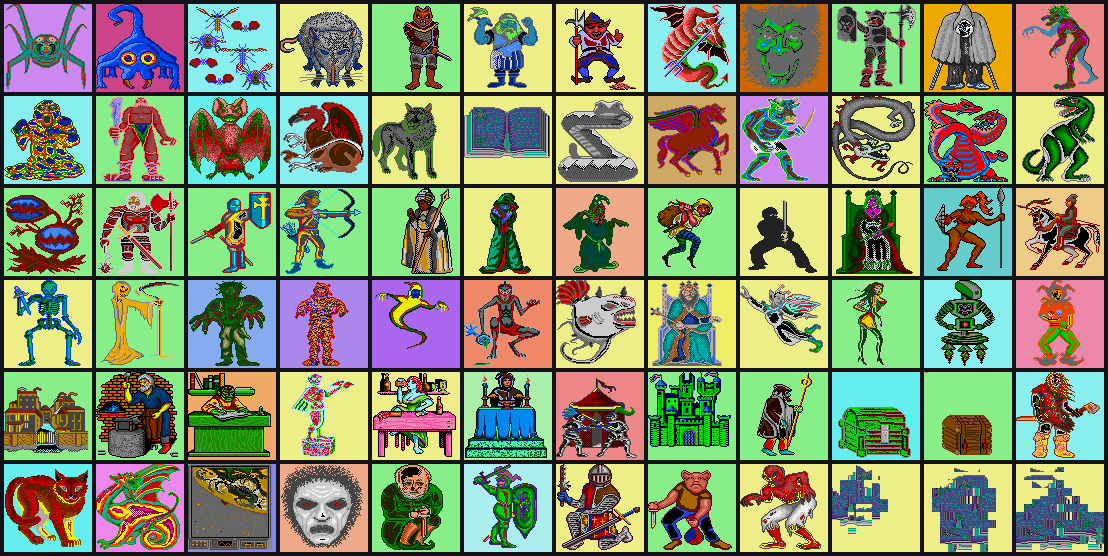
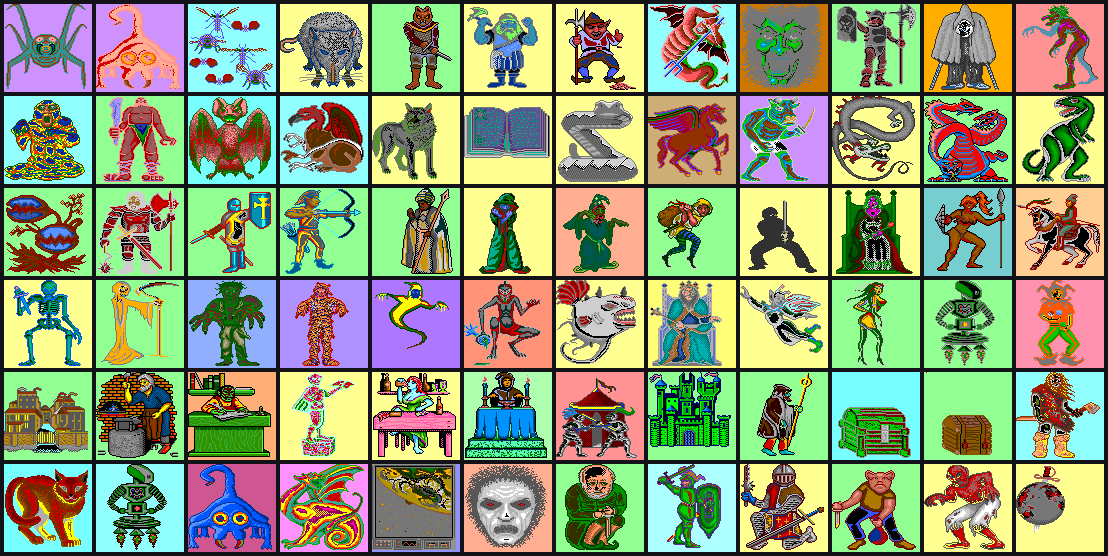
fix: Mega Drive 三張怪物圖配錯 tile 池，畫出來是雜訊
A4 原本記的是「150 個沒歸類的 LZSS 區塊多半是掃描的假陽性，只有
`0x0345D0` 一個在 ROM 裡有人指到」。拆長度分布就知道那個結論不成立 ——
十幾種長度各出現四到十三次，假陽性不會這樣分佈：

  74 個 `rawSize % 242 == 0`  → 怪物圖的 nametable，mdgfx 早就在用
  74 個 `rawSize % 32 == 2`   → tile 池（張數欄與長度互相印證）
   2 個 前四個位元組是寬高    → 小張 tilemap（14×14 與 7×64）

那 74 個池裡 68 個是重覆（帶區塊頭的池，頭後面就是裸的 LZSS 頭，
位址差 14）。**剩下六個裡有三個是關鍵**：`0x09213C`／`0x0938DA`／
`0x0943B8` 排在最後三張怪物 nametable 前面，正是 ROM 的
（tile 池, nametable, 調色盤）排法。而 `pair_pool` 只看帶區塊頭的池，
那三張往前找不到，配到了一百六十幾 KB 外的 `0x06B834` ——
**配得到、圖也畫得出來，只是整張是雜訊**，與「這張本來就長這樣」分不開。

修法是 `mdgfx.all_pools()`：把裸的池一起收進來，`--pics` 與 `--export`
都改用它。三張圖現在是一個機器人、一隻藍色的蠍形獸、一顆插著火箭的
星球。重烘之後 `docs/gallery/md-monsters.png` 最後一列可以直接看出差別。

合併時重覆的池**一定要以帶區塊頭的為準** —— 裸的那一份沒有調色盤，
挑到它那張圖會沿用上一張的顏色，圖形還是對的，看起來只像
「這隻怪的配色怪怪的」。順帶：那兩隻在 ROM 裡各存了兩份，剪影完全相同，
與 DOS 槽號比對時分數一路平手，所以 `monpack.assign` 改成**平手取圖索引
小的**（先出現的那一份自帶調色盤），否則誰贏會隨排序的實作細節浮動。

`tools/mdassets.py` 也補上這三族的判準，`other` 欄現在是 **0** ——
這顆 ROM 裡每一個 LZSS 區塊都歸類完了。

教訓：**「ROM 裡有沒有人指到」這個過濾器在這一題上零證據力**。
150 個裡只有一個命中，而其中至少 80 個確定是程式在用的東西。
同一個過濾器在找調色盤時是決定性的，在這裡有洞 ——
過濾器沒中不等於東西不存在。

Changed region(s): [[0.0614, 0.8255, 1.0, 1.0], [0.0614, 0.0, 0.1841, 0.1835], [0.8285, 0.4892, 0.9206, 0.6727]]

diff --git a/tools/mdassets.py b/tools/mdassets.py
@@ -204,6 +204,7 @@ def main() -> None:
 
     done = set()
     n_tiles = n_view = n_other = n_map = n_pool = n_text = 0
+    n_ntab = n_tmap = 0
     for src, pool in sorted(todo):
         if src in done:
             continue
@@ -276,6 +277,37 @@ def main() -> None:
             rows.append(("pool", src, f"{n} tiles", note, name))
             n_pool += 1
             continue
+        # 帶區塊頭的池會被掃描器再找到一次（頭後面就是裸的 LZSS 頭），
+        # 位址差 14。那不是新東西，直接跳過，否則總表上一個池會出現兩次。
+        if src + 14 in pool_at:
+            continue
+        # 怪物圖的 nametable：`raw % 242 == 0`（242 ＝ 11×11×2）。
+        # 這一族由 `tools/mdgfx.py --export` 配上 tile 池烘成素材包，
+        # 不必在這裡再畫一次。
+        if raw % mdgfx.NT_BYTES == 0:
+            rows.append(("pic-nt", src, f"{raw // mdgfx.NT_BYTES} 影格",
+                         "怪物圖的 nametable，配 `mdgfx.py --export`", ""))
+            n_ntab += 1
+            continue
+        # 小張的 tilemap：前四個位元組是寬高（cell 數），`4 + w×h×2` 要等於長度。
+        w = int.from_bytes(data[0:2], "big")
+        h = int.from_bytes(data[2:4], "big")
+        if w and h and 4 + w * h * 2 == raw:
+            rows.append(("tilemap", src, f"{w}×{h} cell",
+                         "寬高在前四個位元組", ""))
+            n_tmap += 1
+            continue
+        # 沒有區塊頭的 tile 池：張數欄與長度互相印證就算數，不必有人指到。
+        if raw % 32 == 2:
+            n = int.from_bytes(data[:2], "big")
+            if n == (raw - 2) // 32:
+                name = f"pool/{src:06X}-{n}t.png"
+                save_tiles(data[2:], n, mdscene.rom_palette(rom, 0),
+                           os.path.join(out, name), scale=args.scale)
+                rows.append(("pool", src, f"{n} tiles",
+                             "沒有區塊頭；張數欄與長度對得上", name))
+                n_pool += 1
+                continue
         # 其他：原樣存起來，順便記下它像不像 tile
         name = f"other/{src:06X}-{raw}.bin"
         with open(os.path.join(out, name), "wb") as fh:
@@ -324,9 +356,10 @@ def main() -> None:
         cited = sum(1 for r in rows if r[0] == "other" and "有人指到" in r[3])
         fh.write(f"由 `tools/mdassets.py` 產生。tile 池 {n_tiles} 個、"
                  f"視野點陣圖 {n_view} 張、介面 tilemap {n_map} 張、"
-                 f"tile 池（無區塊頭）{n_pool} 個、文字區塊 {n_text} 個、"
+                 f"小張 tilemap {n_tmap} 張、tile 池（無區塊頭）{n_pool} 個、"
+                 f"怪物圖 nametable {n_ntab} 張、文字區塊 {n_text} 個、"
                  f"其他 LZSS 區塊 {n_other} 個"
-                 f"（其中 {cited} 個在 ROM 裡有人指到，其餘多半是掃描的假陽性）、"
+                 f"（其中 {cited} 個在 ROM 裡有人指到）、"
                  f"16 色調色盤 {len(pals)} 組。\n\n")
         fh.write("| 家族 | 位址 | 尺寸／數量 | 備註 | 檔案 |\n|---|---|---|---|---|\n")
         for fam, addr, size, note, name in sorted(rows, key=lambda r: (r[0], r[1])):
@@ -334,7 +367,8 @@ def main() -> None:
         fh.write("\n調色盤位址：" + "、".join(f"`0x{p:06X}`" for p in pals) + "\n")
 
     print(f"tile 池 {n_tiles}、視野點陣圖 {n_view}、介面 tilemap {n_map}、"
-          f"tile 池（無區塊頭）{n_pool}、文字 {n_text}、其他 {n_other}、"
+          f"小張 tilemap {n_tmap}、tile 池（無區塊頭）{n_pool}、"
+          f"怪物圖 nametable {n_ntab}、文字 {n_text}、其他 {n_other}、"
           f"調色盤 {len(pals)} → {out}")
 
 

diff --git a/tools/mdgfx.py b/tools/mdgfx.py
@@ -247,6 +247,54 @@ def nametables(d: bytes) -> list:
     return out
 
 
+def raw_pools(d: bytes) -> list:
+    """掃出**沒有區塊頭**的 tile 池，回傳與 `blocks()` 同形狀的 dict。
+
+    帶頭的那一族（`blocks()`）要求 16 bytes 區塊頭加 `F0FF` magic；
+    ROM 裡還有一批只有裸的 `compSize/rawSize/位元流`，其中三個就排在
+    最後三張怪物 nametable 前面。`pair_pool` 只看 `blocks()` 的話，
+    那三張會配到一百六十幾 KB 外的池 —— **配得到、圖也畫得出來，
+    只是全部是雜訊**，與「這張本來就長這樣」分不開。
+
+    判準是兩個獨立欄位互相印證：`rawSize % 32 == 2`（開頭兩個位元組是
+    張數），而且解出來的第一個字等於 `(rawSize − 2) / 32`。
+    """
+    out = []
+    for x in range(0, len(d) - 8, 2):
+        comp = int.from_bytes(d[x:x + 4], "big")
+        raw = int.from_bytes(d[x + 4:x + 8], "big")
+        if raw % 32 != 2 or not (0x20 < comp < 0x20000) or raw > 0x8000:
+            continue
+        if x + 8 + comp > len(d) or not (raw // 8 <= comp <= raw * 2):
+            continue
+        try:
+            data, used = lzss(d, x + 8, raw)
+        except Exception:
+            continue
+        if len(data) != raw or abs(used - comp) > 2:
+            continue
+        n = int.from_bytes(data[:2], "big")
+        if n != (raw - 2) // 32:
+            continue
+        out.append({"pal": None, "hdr": x - 2, "data": x + 8, "id": -1,
+                    "comp": comp, "raw": raw, "tiles": n, "flag": 0})
+    return out
+
+
+def all_pools(d: bytes, bs=None) -> list:
+    """帶頭的與裸的 tile 池合在一起，依位址排序。
+
+    **重疊的一定要以帶頭的為準**：`raw_pools` 會把每一個帶頭的池再找到
+    一次（區塊頭後面就是裸的 `compSize/rawSize/位元流`），而裸的那一份
+    `pal` 是 None —— 挑到它的話那張圖會沿用上一張的調色盤，顏色整個換掉，
+    但圖形本身還是對的，所以看起來只像「這隻怪的配色怪怪的」。
+    """
+    bs = bs if bs is not None else blocks(d)
+    have = {b["hdr"] for b in bs}
+    out = list(bs) + [p for p in raw_pools(d) if p["hdr"] not in have]
+    return sorted(out, key=lambda b: b["hdr"])
+
+
 def pair_pool(bs, nt):
     """替一張 nametable 找它的 tile 池。
 
@@ -254,6 +302,9 @@ def pair_pool(bs, nt):
     而且 tile 數蓋得住這張圖用到的最大索引**的那個池；前面找不到才往後找
     （少數幾張共用池，池排在後面）。只取「前面最近」會漏掉那幾張，
     而漏掉的長相是一張全黑的圖 —— 與「這張本來就是空的」分不開。
+
+    **`bs` 要用 `all_pools()`**：只給 `blocks()` 的話，最後三張的池找不到，
+    會往一百六十幾 KB 外配一個「tile 數夠多」的池，畫出來是雜訊。
     """
     need = max(v & 0x7FF for v in struct.unpack_from(">%dH" % PIC_CELLS, nt["data"], 0))
     before = [b for b in bs if b["hdr"] < nt["at"] and b["tiles"] > need]
@@ -498,12 +549,13 @@ def main() -> None:
         return
 
     last_pal = [(0,0,0)]*16
+    # 怪物圖那兩條路要連裸的 tile 池一起看：最後三張的池沒有區塊頭。
     if a.export:
-        export_pics(d, bs, a.export, a.data)
+        export_pics(d, all_pools(d, bs), a.export, a.data)
         return
 
     if a.pics:
-        make_pics(d, bs, a.pics, a.data)
+        make_pics(d, all_pools(d, bs), a.pics, a.data)
         return
 
     if a.sheet:

diff --git a/tools/monpack.py b/tools/monpack.py
@@ -41,7 +41,14 @@ def dos_masks(data_dir: str):
 
 
 def assign(pic_masks, dos):
-    """貪婪一對一指派。pic_masks 是 {圖索引: 剪影}，回傳 {圖索引: (槽號, 分數)}。"""
+    """貪婪一對一指派。pic_masks 是 {圖索引: 剪影}，回傳 {圖索引: (槽號, 分數)}。
+
+    **分數相同時取圖索引小的。** Mega Drive 的 ROM 裡有兩隻怪各存了兩份，
+    剪影完全相同 —— 分數一路平手到小數點後十位，靠排序的自然順序決定
+    等於讓「哪一份贏」隨實作細節浮動。先出現的那一份自帶調色盤
+    （後面那一份的 tile 池沒有區塊頭，也就沒有調色盤，只能沿用上一張的），
+    所以取小的那一份顏色才是對的。
+    """
     import numpy as np
 
     scores = []
@@ -51,7 +58,8 @@ def assign(pic_masks, dos):
             h, w = pm.shape
             pad[:min(h, 86), :min(w, 84)] = pm[:86, :84]
             scores.append((float((dm == pad).mean()), s, i))
-    scores.sort(reverse=True)
+    # 分數大的優先；平手時圖索引小的優先（槽號只是讓排序穩定）。
+    scores.sort(key=lambda t: (-t[0], t[2], t[1]))
     out, used_s, used_i = {}, set(), set()
     for sc, s, i in scores:
         if s in used_s or i in used_i:

diff --git a/CONTEXT.md b/CONTEXT.md
@@ -43,7 +43,7 @@
 | remake 一般寶箱 | 一般戰鬥勝利已接到 `Encounter.VictoryChestFromItems`→`ui.Session.Chest`，勝利後自動開四選單；怪物 `+0x10` 掉落欄位、`sub_188FC` 金幣／寶石累加、`sub_19BF8` 0–3 件物品生成均有 typed 鏈。快速戰鬥、正常 UI、逃跑移除前累加與離開清除均有測試；競技賽與事件 `0x2a` 分支保留。**「探索中搜尋寶箱的來源」已結案（2026-08-14）：原版沒有那條路徑**，`ds:0434`／`ds:6950–695F` 的八個寫入端全部掃出，內容只來自事件腳本與戰鬥戰利品。見 [`chest-trigger-oracle.md`](docs/research/chest-trigger-oracle.md)。**觸發點也結案了（2026-08-15）**：四選單由探索模式按 `S`（搜尋）打開 —— `2PLAY` 指令分派 `0x181E8` → thunk `0x17336` → root `0x13814`，那支五組獎賞陣列全空就印 `Nothing Here!`。`_2misc_e02` 的 thunk 全域只有這一個呼叫端，所以原版**所有**獎賞都只能經搜尋領取。`ds:0434 == 0xFE`（神殿）由主迴圈 `0x18032` 自動 `inc` 成 `0xFF` 並自動搜尋，先前列為「語意未定」的那條就是它。remake 已改成戰後擺著、按 `S` 才開，並補上「這裡什麼都沒有」。見 [`command-keys-oracle.md`](docs/research/command-keys-oracle.md)。| 事件 `0x2a` 那條 remake 仍自動發放（原版要按 `S`），差異理由記在 [`polish-spec`](docs/polish-spec.md) P11。|
 | remake 怪物動畫 | 使用者選擇先接可逆的保守方案：正常戰鬥 UI 逐步遵守 `MONSTERS.16` 的原始 hold，播放每張圖第一個完整合法序列；無合法序列退回基準圖，換場重設。這證明動畫資料與 UI 垂直鏈已接通，但序列對應待機／攻擊／受擊仍是強推論，不宣稱 DOS exact。**動畫表的結構已修正（2026-08-15）**：沒有「表頭」，`FF` 是每一段的結束標記，59 個槽共 240 段（原本記 181 是把 59 個第一段當表頭扣掉）；槽 9 檔案裡那張表是壞的，原版在 root `0x12711` 用 `ds:4B92` 的 36 bytes 修補，remake 已照做。**第一段不是動畫是播放腳本**（段編號, 停留），bit 7 ＝「`rand(1, 低7位)` 隨機挑一段」（root `0x15735` 呼叫的正是亂數產生器）；136 個腳本項的段編號一律落在 1..段數-1，零例外。影格編號越界也不是壞資料 —— 原版比對影格數後畫影格 0。remake 已照腳本挑段並隨機化。| 日後取得 DOS 連續戰鬥 oracle 時，只替換序列用途選擇；不得推翻已證實的影格、序列與 hold 解碼。|
 | remake 本機音樂 | Mega Drive／MSX／Amiga 三版均已由序列器與正常呼叫證實有音樂；Mega Drive 的 16 首場景曲目最完整。引擎已有 PCM WAV 音樂包 manifest、完整性／路徑安全驗證、正常 UI 的城鎮／地城／戶外／戰鬥／設施映射與循環播放器；缺少部分包角色時明確靜音。原版音檔不進版控，`local-full --music-pack-dir` 才可帶入。見 [`music.md`](docs/music.md)。| **擷取工具鏈已完成並驗證（2026-08-13）**：`mm2-blastem:0.6.3-pre-732f5689d438` ＋ libvgm `61fc6725` 的 `vgm2wav` ＋ 檔頭正規化，`tools/blastem_run.sh` 一次執行從 ROM 走到 remake 解碼器實際吃得下的 WAV。**18 首曲目已由本專案自己解出**（不再依賴 VGMRips 的外部清單）：每首前 4 bytes 是結束指標，18 個 `move.l (sp)+,-$37B0(a5)` 前面 100% 是 `move.l #<曲目位址>,(sp)`，零例外。觸發點也定了 —— 往 RAM `$FFCB62` 寫一個 32-bit 曲目位址，下一次 vblank 就換曲，不必玩到那個場景。選曲的 21 個 case 也解完（`0x0B620` 的跳表 switch，case 19 依另一變數在四首間分支），相異曲目正好 18 首，與位元組掃描互相印證。**逐首擷取已打通**：ROM 一個位元組都不改（這片改任何一個位元組就開不了機，機制是 `sub_BFC28`：ROM `0`–`0xBFC28` 的長字加總必須等於 `0x3ACE1FBA`），改用 GDB remote stub（`blastem -D`，走 stdio）在 `0x06CB02` 下中斷點、每幀寫 RAM `$FFCB62`、壓 40 幀並驗證 `$FFCB5E` 切過去才錄。`tools/md_music_dump.sh` 一次跑完 18 首。**場景對照也解出來了**：39 個呼叫端（11 直接 ＋ 28 走 a5 thunk，只掃直接呼叫會漏七成）逐一對到 case 與曲目，再用地圖區間（`sub_FB86`）與字串錨點定語意。**16 個角色全部已定，對到 16 首不同曲子**；九個標已證實 —— 四個區域主題靠地圖區間與 DOS 版語意互相印證，五個設施（旅店 case 11／鐵匠 13／酒館 14／神殿與法師公會同為 15／訓練所 16）是**在模擬器裡逐一走進去量的**：選曲函式下中斷點，記下 `d0` 與回傳位址，配店內截圖。走法由 `tools/md_town_route.py` 從 DOS 版 `MAP.DAT` 的牆位元 BFS 算出（兩版地圖佈局相同，六個入口座標完全吻合），不必盲試。音樂包由 `tools/md_music_manifest.py` 產生，過 remake 自己的 `music.LoadManifestFile` 驗證。**場景對照一律用反組譯推、不用人耳**，整條推導在 `tools/md_music_scenes.py` 可重跑。見 [`md-music-scenes.md`](docs/research/md-music-scenes.md)。現有推廣片仍標為 DOS PC Speaker。見 [`md-music-driver.md`](docs/research/md-music-driver.md)。|
-| Mega Drive RE | **收尾（2026-08-14）**。缺口清單清空：第一人稱繪製鏈（`sub_FC38` → `sub_3DE2` → DMA）、視野貼圖格式、六個設施與戰鬥的音樂對照（走進去量的，配截圖）、開機完整性檢查 `sub_BFC28`、隊伍座標 `0xFFF3A4`／`0xFFF3A6`、角色記錄 `0xFFCE9F`＋134 全部解出。動態工具鏈完成：`md-trace`／`md-walk`（依 SP 判 modal、`--expect` 逐步核對座標）／`md-fight`（自動戰鬥＋無敵）／`md-ram-diff`。見 [`md-re-status.md`](docs/research/md-re-status.md)。| **2026-08-15：那五個角色現在播得到了。** remake 加了一次性音效（stinger）路徑：戰鬥中消滅敵人／隊員陣亡、打贏、全滅、按 `S` 撿到戰利品各對一個角色，一幀只播一個（依重要性挑）。`castle` 也接上了 —— `2PLAY _2play_e10` 的跳表 case 2 與 5 推 `castle*.16`（檔名從 DGROUP 初值段解指標讀出來的），對上場景碼區間就是地圖 45–59。所以**戰鬥結算那幾首的強推論現在會被玩家聽到**，值得補一次動態驗證。`intro` 也接上了（2026-08-15）：remake 開機先進片頭，按任意鍵進遊戲。**2026-08-16：第一人稱場景素材也接進 `F6` 了。**視野貼圖表（`0xFFCD40`，60 個長字）、二十個落點、地板與天空、調色盤（`0x6FC2A` ＝ CRAM 第 2 條）全部解出來，用 BlastEm 傾印的視野格子陣列組出來的畫面與模擬器自己的組合緩衝區**逐像素相同**（24,960 個全中）。工具是 `tools/mdscene.py`，載入是 `loadMDTown`。**光照也量出來了**：亮度 0–8 九級，`分量 × 亮度 ÷ 8`，實際只用四個穩態級（8 正常、6 夜晚、2 無光源、0 換場起點），過渡由 `sub_B880(起,迄)` 每幀走一格；日夜另有一組目標 `-$35D4(a5)`（晝 8、夜 6）。**素材也全部抓出來編目了**（`tools/mdassets.py`）：tile 池 72、視野點陣圖 91、整頁介面 tilemap 3（建角／探索／戰鬥，這一輪新解）、裸 tile 池 2、調色盤 80 組。**火炬也接了（2026-08-16）**：`sub_3836` 是十八段展平的程式碼，四個引數就是 nametable 的行列與寬高，鏡射常數 30，視圖座標 ＝ (行 − 2) × 8 —— 整組位置從靜態反組譯就讀得出來，不必再取樣。53 個 tile 分成八張圖剛好分完（10+8+4+1+18+8+3+1），這是版面的獨立驗證。remake 接了九組，含 **DOS 版沒有素材的正牆深度 1**。火焰動畫也解完：`sub_7F78` 拿 ROM `0x0BF4DC` 的 9 色表，第 5／6／7 格各取 `n`／`n+3`／`n+1`，一相位 5 幀、整圈 45 幀、不吃光照；火炬自己那一條調色盤在 ROM `0x6D03C`，**顏色靜態就讀得到**，實機量測確認的是機制與週期。 |
+| Mega Drive RE | **收尾（2026-08-14）**。缺口清單清空：第一人稱繪製鏈（`sub_FC38` → `sub_3DE2` → DMA）、視野貼圖格式、六個設施與戰鬥的音樂對照（走進去量的，配截圖）、開機完整性檢查 `sub_BFC28`、隊伍座標 `0xFFF3A4`／`0xFFF3A6`、角色記錄 `0xFFCE9F`＋134 全部解出。動態工具鏈完成：`md-trace`／`md-walk`（依 SP 判 modal、`--expect` 逐步核對座標）／`md-fight`（自動戰鬥＋無敵）／`md-ram-diff`。見 [`md-re-status.md`](docs/research/md-re-status.md)。| **2026-08-15：那五個角色現在播得到了。** remake 加了一次性音效（stinger）路徑：戰鬥中消滅敵人／隊員陣亡、打贏、全滅、按 `S` 撿到戰利品各對一個角色，一幀只播一個（依重要性挑）。`castle` 也接上了 —— `2PLAY _2play_e10` 的跳表 case 2 與 5 推 `castle*.16`（檔名從 DGROUP 初值段解指標讀出來的），對上場景碼區間就是地圖 45–59。所以**戰鬥結算那幾首的強推論現在會被玩家聽到**，值得補一次動態驗證。`intro` 也接上了（2026-08-15）：remake 開機先進片頭，按任意鍵進遊戲。**2026-08-16：第一人稱場景素材也接進 `F6` 了。**視野貼圖表（`0xFFCD40`，60 個長字）、二十個落點、地板與天空、調色盤（`0x6FC2A` ＝ CRAM 第 2 條）全部解出來，用 BlastEm 傾印的視野格子陣列組出來的畫面與模擬器自己的組合緩衝區**逐像素相同**（24,960 個全中）。工具是 `tools/mdscene.py`，載入是 `loadMDTown`。**光照也量出來了**：亮度 0–8 九級，`分量 × 亮度 ÷ 8`，實際只用四個穩態級（8 正常、6 夜晚、2 無光源、0 換場起點），過渡由 `sub_B880(起,迄)` 每幀走一格；日夜另有一組目標 `-$35D4(a5)`（晝 8、夜 6）。**素材也全部抓出來編目了**（`tools/mdassets.py`）：tile 池 72、視野點陣圖 91、整頁介面 tilemap 3（建角／探索／戰鬥，這一輪新解）、裸 tile 池 2、調色盤 80 組。**火炬也接了（2026-08-16）**：`sub_3836` 是十八段展平的程式碼，四個引數就是 nametable 的行列與寬高，鏡射常數 30，視圖座標 ＝ (行 − 2) × 8 —— 整組位置從靜態反組譯就讀得出來，不必再取樣。53 個 tile 分成八張圖剛好分完（10+8+4+1+18+8+3+1），這是版面的獨立驗證。remake 接了九組，含 **DOS 版沒有素材的正牆深度 1**。火焰動畫也解完：`sub_7F78` 拿 ROM `0x0BF4DC` 的 9 色表，第 5／6／7 格各取 `n`／`n+3`／`n+1`，一相位 5 幀、整圈 45 幀、不吃光照；火炬自己那一條調色盤在 ROM `0x6D03C`，**顏色靜態就讀得到**，實機量測確認的是機制與週期。**素材編目也收尾了（2026-08-16）**：先前列為「還沒歸類、多半是假陽性」的 150 個 LZSS 區塊全部歸類完（74 張怪物 nametable、74 個 tile 池含 68 個重覆、2 張小 tilemap），`other` 歸零。過程中抓到三張畫壞的怪物圖：`0x09213C`／`0x0938DA`／`0x0943B8` 這三個**沒有區塊頭**的 tile 池排在最後三張 nametable 前面，而 `pair_pool` 只看帶頭的池，那三張因此配到一百六十幾 KB 外的池、**整張畫成雜訊**——而雜訊與「這張本來就長這樣」分不開。已修並重烘。 |
 | remake 片頭 | **已完成（2026-08-15）**：`MASTER.16` 十五張裡 320×196 的那張是底圖，其餘 14 張是疊在上面的動畫。透空色 **7**、每張的落點都用 60 張 DOSBox 截圖逐像素定出來（第 0 張在 (160, 161)：只有 key=7 能零誤差，落點錯一格不合像素從 0 跳到 391）。13 張全部在 27 秒的取樣裡出現過。獨角獸的頭尾常態交替，樹叢裡幾張臉偶爾探出來。見 [`04-graphics.md`](docs/formats/04-graphics.md) §標題畫面的疊圖動畫。| **換格與觸發規則也解完了（2026-08-16）**：`1MENU1` 的 `sub_1C1FA` 讀 `ds:18D8` 的 **47 步固定清單**（不是亂數），落點在 `ds:1936`／`ds:1954`，與截圖反推的位置逐項相同；一步是 `sub_14EFE(0x46)` ＝ 700 個計時器 tick，而 `TIMER.DRV` 把 PIT 除數設成 `0x0400`（1,165.2 Hz），所以 0.601 秒一步、47 步 28.2 秒，跑完原版自己進主選單。remake 照這張清單播。第 5／6／9 張各有 3–9 個像素與截圖不合，原因未查。|
 | DOS 反組譯覆蓋 | **稽核過（2026-08-15）**：14 個 overlay ＋ root 共 835 個函式。目錄總表與各 overlay 的狀態在 [`docs/re/README.md`](docs/re/README.md)。`1MENU1`、`2CAVES`、`2BRAIN` 三個 overlay **全解**。角色記錄 `+125`／`+129` 的每一個位元、`ds:03F6` 起 24 個全域位元組（＝可雇用夥伴的解鎖旗標）、三隻獸旗標的寫入時機見 [`docs/re/03`](docs/re/03-character-flags.md)；酒館的五個選單項、酒與餐點的效果表、餐點在 `+118` 留下的旗標、依日期輪替的傳聞，以及**七張執行時載入表的 `str.dat` 索引**（訊息 `n` ＝ `str.(114+n)`，由三個獨立呼叫點驗證）見 [`docs/re/04`](docs/re/04-2brain-tavern.md)。**`1RETINN` 也全解了（2026-08-16）**：旅店登記、名冊與隊伍編組（一般角色 6 人、連雇傭兵 8 人的兩層上限）、五座城的離開落點表（`ds:21E8`／`21EE`／`21F4`，第 0 項 (7,3) 面 `'N'` 與 DOSBox 量到的起點吻合）、以及**全滅回到最後投宿的旅店**（`_1retinn_e04`），見 [`docs/re/06`](docs/re/06-1retinn-roster.md)。任務線的玩法在 [`docs/quests.md`](docs/quests.md)，四十則酒館傳聞的中英對照在 [`docs/tavern-rumors.md`](docs/tavern-rumors.md)。**結局控制室已全解（2026-08-16）**：`2PLAY` 的 `0x0e` 分派 `0xFD` → `_2smith_e01`（2SMITH `+CEC8`）先用 `ds:9680` 的五格清單（`FF E1 C2 C1 E0` ＝ Sheltem ＋ 水／風／火／土四元素）打一場 `ds:0415 = 0x83` 的特殊戰鬥，過了才進 `sub_1D2A4`。控制室三道關卡：十格中止碼比對 `ds:45FC` 的 `"WAFE      "`、隊伍要有人帶 `+129` bit 5、然後是**替代加密的密碼題** —— `sub_1D19C` 每次重抽一張 0..25 的隨機字母表，四行密文的明文是 `str.302`–`305`（泰拉憲法序言），玩家要把 `ds:45BA` 指到的 `"Preamble"` 用同一張表編碼、在 15 分鐘內打出那 8 個字元。通關給每人 50,000,000 經驗（`+129` bit 3 擋重複），最終分數 ＝ 全隊經驗值總和。四十七條字串是 `sub_17732(3)` 從 `str.280`–`str.326` 一次讀進來的。見 [`docs/re/05`](docs/re/05-2smith-control-room.md)。**`2SMITH` 鐵匠（[`07`](docs/re/07-2smith-shop.md)）、`2CMDS`（[`08`](docs/re/08-2cmds-inventory.md)）、`2COMBAT`（[`09`](docs/re/09-2combat-map.md)）三個 overlay 也在 2026-08-16 全解。**`2COMBAT` 那一份解出**兩套獨立的怪物攻擊系統**：近身命中附帶的三十種效果（`ds:9E27`）與遠程／法術的三十二種（`ds:9E24`，吐息威力＝這隻怪目前的 HP、群體攻擊一次只走 4–7 格、順序由 `ds:1462` 四組決定且走到空位就白費、`explodes` 與 `frenzies` 打完自爆）。連帶把**八個狀況位元的名字**定出來（`ds:1456`／`ds:145C` 把位元值與 `ds:106E` 的十六則訊息直接配對，`0x01` 詛咒／`0x02` 沈默／`0x20` 麻痺／`0xFF` 抹消先前都沒有來源）。| **`2COMBAT` 已無未解的函式，整套遠程／法術攻擊也接進 remake 了（2026-08-16，`internal/game/special.go`，[`polish-spec`](docs/polish-spec.md) P18）。** 連帶讀完 root 的兩支：`sub_138A8` 是運氣加等級的豁免，`sub_13928` 是傷害的最終調整（抗魔法免傷、幸運減半、元素除以四，然後扣血並改狀況位元組）。`ds:1436` 減 `0x11` 那一步也解掉了 —— `sub_13928` 取偏移時加回 `0x11`，所以傷害那條路讀的是對的抗性欄位；上狀況那條路（`sub_1B2DE`）沒加回來，那是原版的漏洞，remake 不照抄（[`polish-spec`](docs/polish-spec.md) D1）。root 的無筆記函式多數是 C runtime，不列缺口。|
 | 原版 oracle 未知 | 戰鬥編隊／目標命令的完整細節、設施 overlay 的逐畫面行為、原版存檔格式，以及部分第一人稱遠景／火炬差異仍未證實。| 只在它們影響上述玩家 gate 時進行最小充分的 DOSBox 重播；其餘保留為證據限制。|
@@ -298,6 +298,7 @@ LSEEK 過去。**地圖號直接索引，中間沒有轉換。**
 | `_2play_e14`（俯視地圖）全檔只有定位術一個呼叫端 | **有兩個**：`0x172B2` 那個 thunk 確實只有 `2CAST1` 用，但 `2PLAY` 的指令分派 `0x18189` 直接近呼叫同一個進入點 —— 那是 `M` 鍵 | 掃指令分派時撞見的。**「只有一處」若只掃了 thunk，就只證明了 thunk 只有一處**；同一個映像裡的近呼叫不經 thunk |
 | 法術跳表：`2CAST1` 97 筆 @ `0xD1CE`、`2CAST2` 97 筆 @ `0xD080`，兩表重疊 5 條、聯集 97 條 | **`2CAST1` 96 筆 @ `0xD1CE`、`2CAST2` 92 筆 @ `0xD084` 且索引是「法術編號 − 2」**。43 + 53 = 96，**重疊 0、缺漏 0** —— 兩張表把 96 條剛好分完 | 原本的表頭是拿「重疊最小、聯集最大」的統計挑的，而那個統計只固定得了兩張表的**相對**對齊，定不了絕對位置。補上兩個結構條件（每一筆是預設出口或 6 對齊的 trampoline、表尾正好接上預設出口）才夾得住；而結構條件單獨用又會漏掉那兩筆錯位。**三個條件缺一不可** |
 | 事件表的 `Kind` 高 nibble 是「類型」（走到／搜尋／開門），待驗 | **是方向遮罩**：bit7 北、bit6 東、bit5 南、bit4 西。`2PLAY sub_1A8C4` 在 Cell 相符後 `test Kind, ds:16D2[朝向位移]`，面向不對整筆跳過。remake 原本完全不看它，2,730 筆裡 1,202 筆（44%）的觸發條件是錯的 | 追「誰讀 Kind」時掃 `ds:6052` 的參照，`sub_1A8C4` 連讀三個位元組正是三個欄位。資料側四個單方向值各約 250 筆、幾乎相等 —— **類型碼沒有理由在四個單一位元位置長出四個等高的桶** |
+| Mega Drive 還沒歸類的那 150 個 LZSS 區塊「多半是掃描的假陽性，只有一個在 ROM 裡有人指到」 | **全部有結構**：74 張怪物 nametable（`raw % 242 == 0`）、74 個 tile 池（`raw % 32 == 2` 且張數欄與長度相符，其中 68 個是帶頭那族的重覆）、2 張小 tilemap。`other` 歸零 | 拆長度分布就看出來了 —— 十幾種長度各出現四到十三次，假陽性不會這樣分佈。**「有沒有人指到」這個過濾器在這一題上零證據力**：150 個裡只有一個命中，而其中至少 80 個確定是程式在用的東西。同一個過濾器在調色盤那一題上決定性，在這裡有洞 —— 過濾器沒中不等於東西不存在 |
 | `ds:1436` 減 `0x11` 之後當偏移用是原版算錯了，remake 不能照抄 | **一減一加抵銷**：`sub_1B70C` 減 `0x11`，root `sub_13928` 取偏移時算的是 `記錄[0x11 + 值]`，傷害那條路讀的就是對的抗性欄位。減這一步是為了讓真正的偏移不會撞進 0／1／2／3／0xFF 五個特殊號碼。只有上狀況那條路（`sub_1B2DE`）沒加回來，那才是漏洞 | 為了實作去讀 root 的 `sub_13928`。**「這個算式看起來不合理」在讀完使用端之前只是假設** —— 減法的意義在加法那一端 |
 | 怪物特殊攻擊只有三十種 | **三十二種**。碼 30（`paralyze`）與 31（`swarms`）真的有怪在用 —— Shaman、Strangler、Seductress、Priest 與 Insect Plague、Killer Bees、Swarming Wasps | 實作前先統計 256 隻怪的 `SpecialIndex`，最大值是 31。`specialCount = 30` 讓那七隻的招式查無此碼 |
 | 怪物記錄的 `SpecialIndex` 為 0 表示沒有特殊攻擊（143 隻） | 碼 0 是 `sprays poison`。143 隻碼 0 的怪裡有 **140 隻機率也是 0**（那 140 隻才是真的沒有），另外三隻 Swamp Thing／Dino Spider／Death Spider 機率 90 —— 蜘蛛噴毒。**判準是 `SpecialChance`，不是碼** | 同一次統計。碼與機率兩個欄位的零值數量差三，差的就是那三隻 |

diff --git a/docs/todo.md b/docs/todo.md
@@ -54,7 +54,7 @@ remake 少了整段機制。所以這幾項不能當成純文件工作跳過。
 |---|---|---|
 | ~~A1~~ | Amiga `.anm` 的動畫零件 | **解完**：72 個檔 530 個影格（72 基準圖 ＋ 458 零件）與 `0x31` 的動畫表都解出來並接進 remake。見 [`research/02`](research/02-other-platforms.md) |
 | ~~A2~~ | Mega Drive 的場景素材 | **解完並接進 `F6`**，與執行時的組合緩衝區**逐像素相同**（24,960 個全中）。調色盤依區域類型挑（類型 2／5 用第 0 條）、光照公式 `分量 × 亮度 ÷ 8` 也量出來了。見 [`research/02`](research/02-other-platforms.md) |
-| A4 | Mega Drive 還沒歸類的 LZSS 區塊 | `tools/mdassets.py` 掃出 150 個只通過結構條件的區塊，其中**只有 `0x0345D0` 一個在 ROM 裡有人指到**（1210 bytes，內容像是一張遞增的 16 位元索引表），其餘多半是假陽性。要往下追就從那一個開始 |
+| ~~A4~~ | Mega Drive 還沒歸類的 LZSS 區塊 | **查完，`other` 歸零**：150 個裡 74 個是怪物圖的 nametable、74 個是 tile 池（其中 68 個是帶區塊頭那族的重覆，位址差 14）、2 個是小張 tilemap。剩下 6 個真的沒歸類過的池裡，`0x09213C`／`0x0938DA`／`0x0943B8` 排在最後三張 nametable 前面 —— 那三張先前配到一百六十幾 KB 外的池，**畫出來是雜訊**。已修（`mdgfx.all_pools`）並重烘素材包。見 [`research/02`](research/02-other-platforms.md) |
 | ~~A6~~ | Mega Drive 的 90 個英文文字區塊 | **不做**（使用者決定 2026-08-16）：那是 Mega Drive 自己的劇本，這個專案只採用它的**素材**。解出來的文字留在 `workplace/gfx/md-all/text/*.txt` 備查，不進對照流程 |
 | ~~A7~~ | Mega Drive 的火炬 | **接完**：整組位置不必取樣 —— `sub_3836` 是十八段展平的程式碼，四個引數就是 nametable 的行列與寬高，鏡射常數 30，視圖座標 ＝ (行 − 2) × 8。53 個 tile 分成八張圖剛好分完。火焰動畫是 ROM `0x0BF4DC` 的 9 色表配三個取樣點（一相位 5 幀、整圈 45 幀），顏色與調色盤都在 ROM 裡讀得到。remake 接了九組（含 DOS 沒有的正牆深度 1），見 [`research/02`](research/02-other-platforms.md) |
 | ~~A5~~ | Mega Drive 的光照沒接進 remake | **不做**（使用者決定 2026-08-16）：只採用 Mega Drive 的素材，不移植它的行為。公式與級數已量完存查（`research/02`「光照」）；remake 的暗處規則要接的話以 DOS 版為準 |
